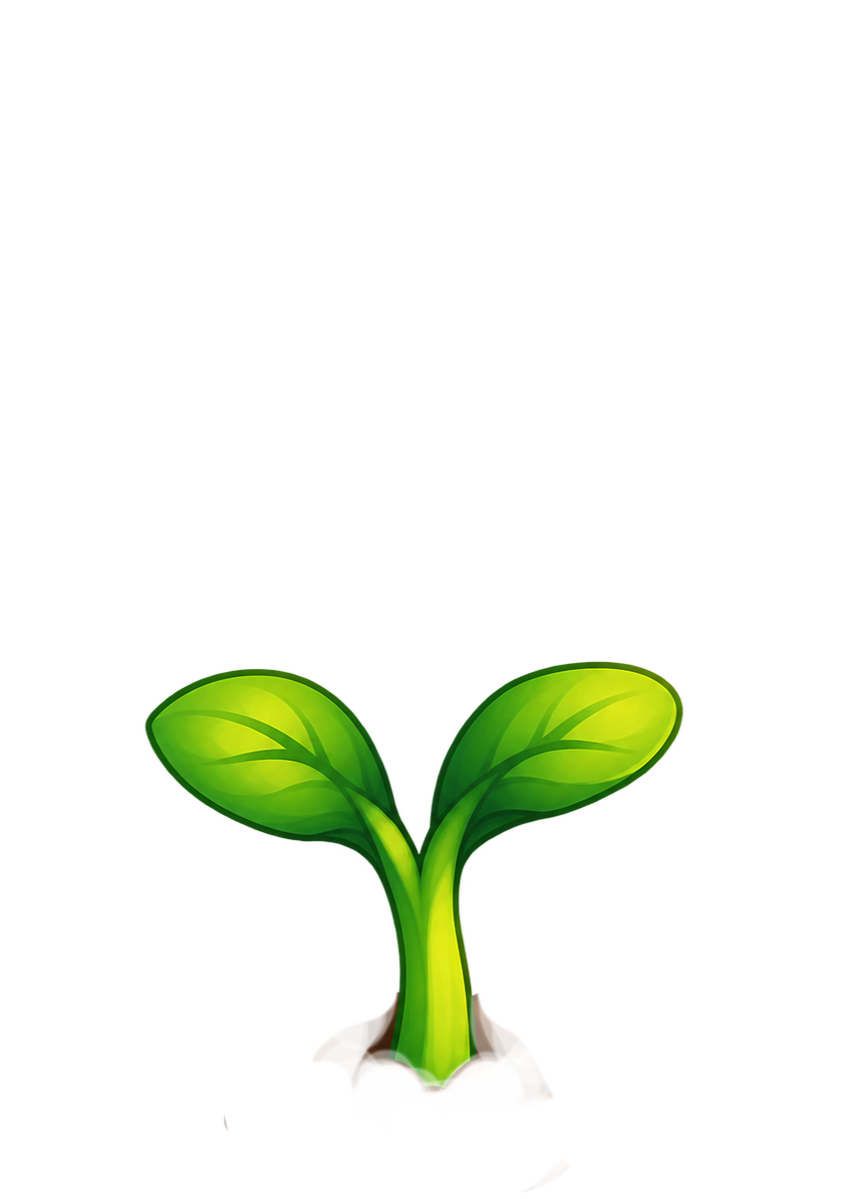
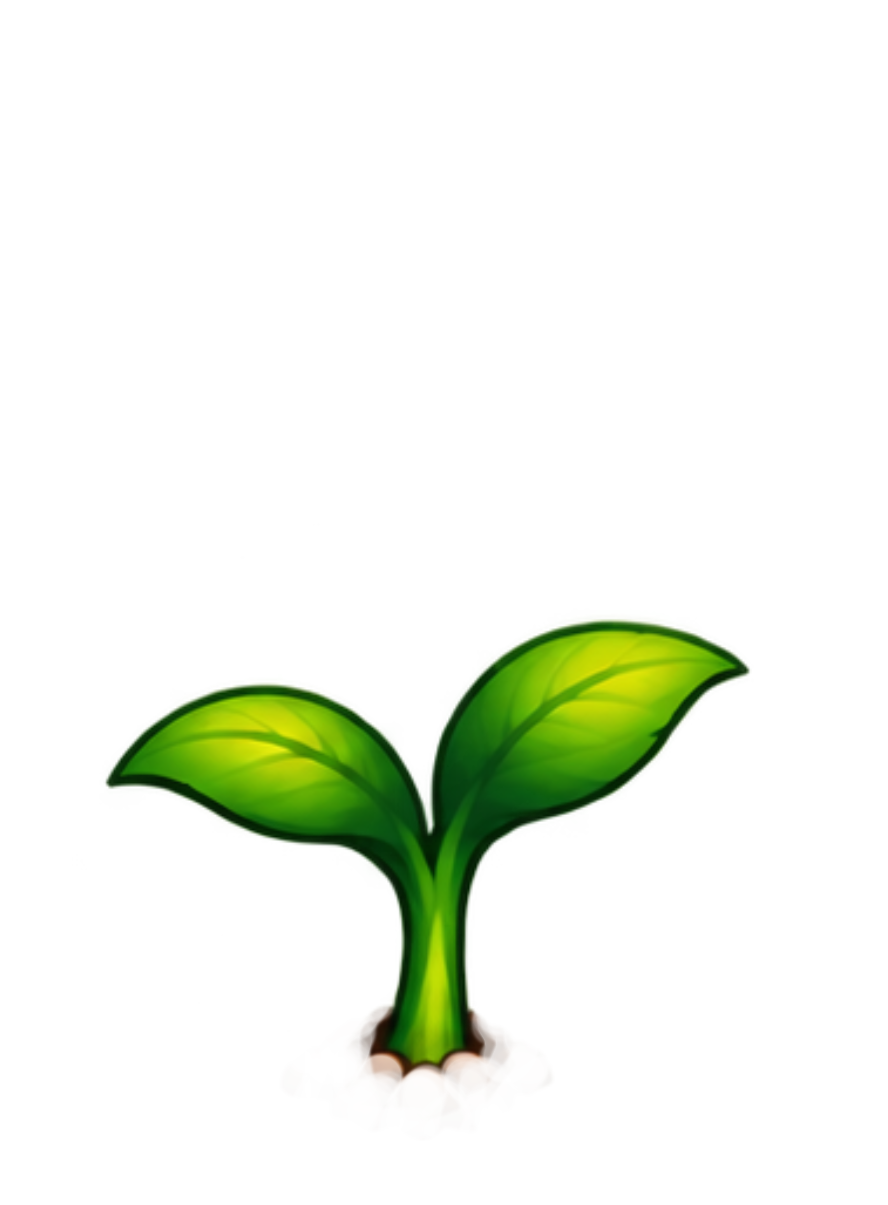
Expand plant growth to Martin's full 13-frame sequence, on one shared canvas so every stage grows without per-image scaling

Changed region(s): [[0.1229, 0.4937, 0.8605, 0.9258]]

diff --git a/src/game.js b/src/game.js
@@ -4121,23 +4121,37 @@ function slotFromWorldX(wx){ let best=-99, bd=1e9; for(let k=0;k<ROOM_SLOTS;k++)
 const DIRT_HOLE_SRC=__ASSET__('icon-dirt-hole.png'); // a harvested plant leaves this little hole where the seed hint used to sit
 let _dirtHoleImg=null;
 function dirtHoleImage(){ if(!_dirtHoleImg){ _dirtHoleImg=new Image(); _dirtHoleImg.src=DIRT_HOLE_SRC; _dirtHoleImg.onload=()=>render(true); } return _dirtHoleImg.complete&&_dirtHoleImg.naturalWidth?_dirtHoleImg:null; }
-const PLANT_STAGE_SPRITES={
+const PLANT_STAGE_SPRITES={ // 13 hand-painted frames (Martin's Sprite-Seed_01..13) — a much finer run-up than the original 6
   seed:__ASSET__('plant-seed.png'),
+  sprout:__ASSET__('plant-sprout.png'),
   germ:__ASSET__('plant-germ.png'),
+  germ2:__ASSET__('plant-germ2.png'),
   young:__ASSET__('plant-young.png'),
-  mature1:__ASSET__('plant-mature1.png'), // 55–67.5 %
-  mature2:__ASSET__('plant-mature2.png'), // 67.5–80 %: fuller/taller, right before bloom
-  bloom:__ASSET__('plant-bloom.png'),
+  young2:__ASSET__('plant-young2.png'),
+  mature1:__ASSET__('plant-mature1.png'),
+  bud1:__ASSET__('plant-bud1.png'), // first closed flower bud
+  bud2:__ASSET__('plant-bud2.png'), // a second bud, taller
+  bloom1:__ASSET__('plant-bloom1.png'), // first flower open
+  bloom2:__ASSET__('plant-bloom2.png'), // second flower open
+  bloom3:__ASSET__('plant-bloom3.png'), // sparkle building
+  bloomfull:__ASSET__('plant-bloomfull.png'), // full sparkle burst
 };
 // fraction of each sprite's own height that is plant, not mound (measured per stage: taller plants have proportionally
 // less mound). No entry for 'seed' — that sprite IS the mound (seed resting on it), so pots keep the procedural dot for it.
-const PLANT_STAGE_MOUND_FRAC={germ:0.905,young:0.929,mature1:0.865,mature2:0.878,bloom:0.871}; // remeasured on Martin's v2 art (redone root/foot)
-// where each sprite's mound actually sits inside its own canvas (measured: bottom-most opaque row / horizontal centre of
-// the mound), so every stage roots at the same soil point — the seed's canvas has more empty space under it than the rest.
-const PLANT_STAGE_ALIGN={seed:{b:0.929,cx:0.518},germ:{b:0.941,cx:0.5},young:{b:0.992,cx:0.5},mature1:{b:0.924,cx:0.5},mature2:{b:0.979,cx:0.5},bloom:{b:0.942,cx:0.5}}; // remeasured on Martin's v2 art (redone root/foot)
+// All 13 frames share ONE canvas (Martin generated the whole run-up on a fixed 1221×1289 stage, then it's cropped here
+// with the SAME rectangle for every frame) — so a frame's own pixel size already IS its true relative size: nothing is
+// individually stretched or shrunk to fit a common box, the plant simply grows larger across the same-sized frames.
+const PLANT_STAGE_MOUND_FRAC={sprout:0.87,germ:0.871,germ2:0.86,young:0.854,young2:0.866,mature1:0.842,bud1:0.855,bud2:0.885,bloom1:0.85,bloom2:0.89,bloom3:0.89,bloomfull:0.89};
+// where each sprite's mound sits inside the shared canvas (bottom-most opaque row / horizontal centre near it) — all
+// close together since it's the same ground line throughout, confirming the frames are a consistent, unscaled sequence.
+const PLANT_STAGE_ALIGN={seed:{b:0.898,cx:0.503},sprout:{b:0.894,cx:0.475},germ:{b:0.898,cx:0.468},germ2:{b:0.907,cx:0.446},
+  young:{b:0.899,cx:0.495},young2:{b:0.912,cx:0.486},mature1:{b:0.908,cx:0.496},bud1:{b:0.918,cx:0.537},bud2:{b:0.898,cx:0.49},
+  bloom1:{b:0.904,cx:0.498},bloom2:{b:0.902,cx:0.53},bloom3:{b:0.902,cx:0.53},bloomfull:{b:0.902,cx:0.53}};
 let _plantStageImgs={};
-function plantSpriteStage(P){ // which sprite covers this growth fraction — mirrors phaseName()'s thresholds, with "mature" split in two for a smoother run-up to bloom
-  if(P<0.05)return'seed'; if(P<0.25)return'germ'; if(P<0.55)return'young'; if(P<0.675)return'mature1'; if(P<0.80)return'mature2'; return'bloom';
+function plantSpriteStage(P){ // which of the 13 frames covers this growth fraction — vegetative stages 1-9 fill 0→80% (matching BLOOM_P), the 4 flowering frames split the last 20%
+  if(P<0.05)return'seed'; if(P<0.12)return'sprout'; if(P<0.20)return'germ'; if(P<0.29)return'germ2';
+  if(P<0.39)return'young'; if(P<0.50)return'young2'; if(P<0.62)return'mature1'; if(P<0.71)return'bud1'; if(P<0.80)return'bud2';
+  if(P<0.85)return'bloom1'; if(P<0.90)return'bloom2'; if(P<0.95)return'bloom3'; return'bloomfull';
 }
 function plantStageImage(stage){
   const src=PLANT_STAGE_SPRITES[stage]; if(!src)return null;
